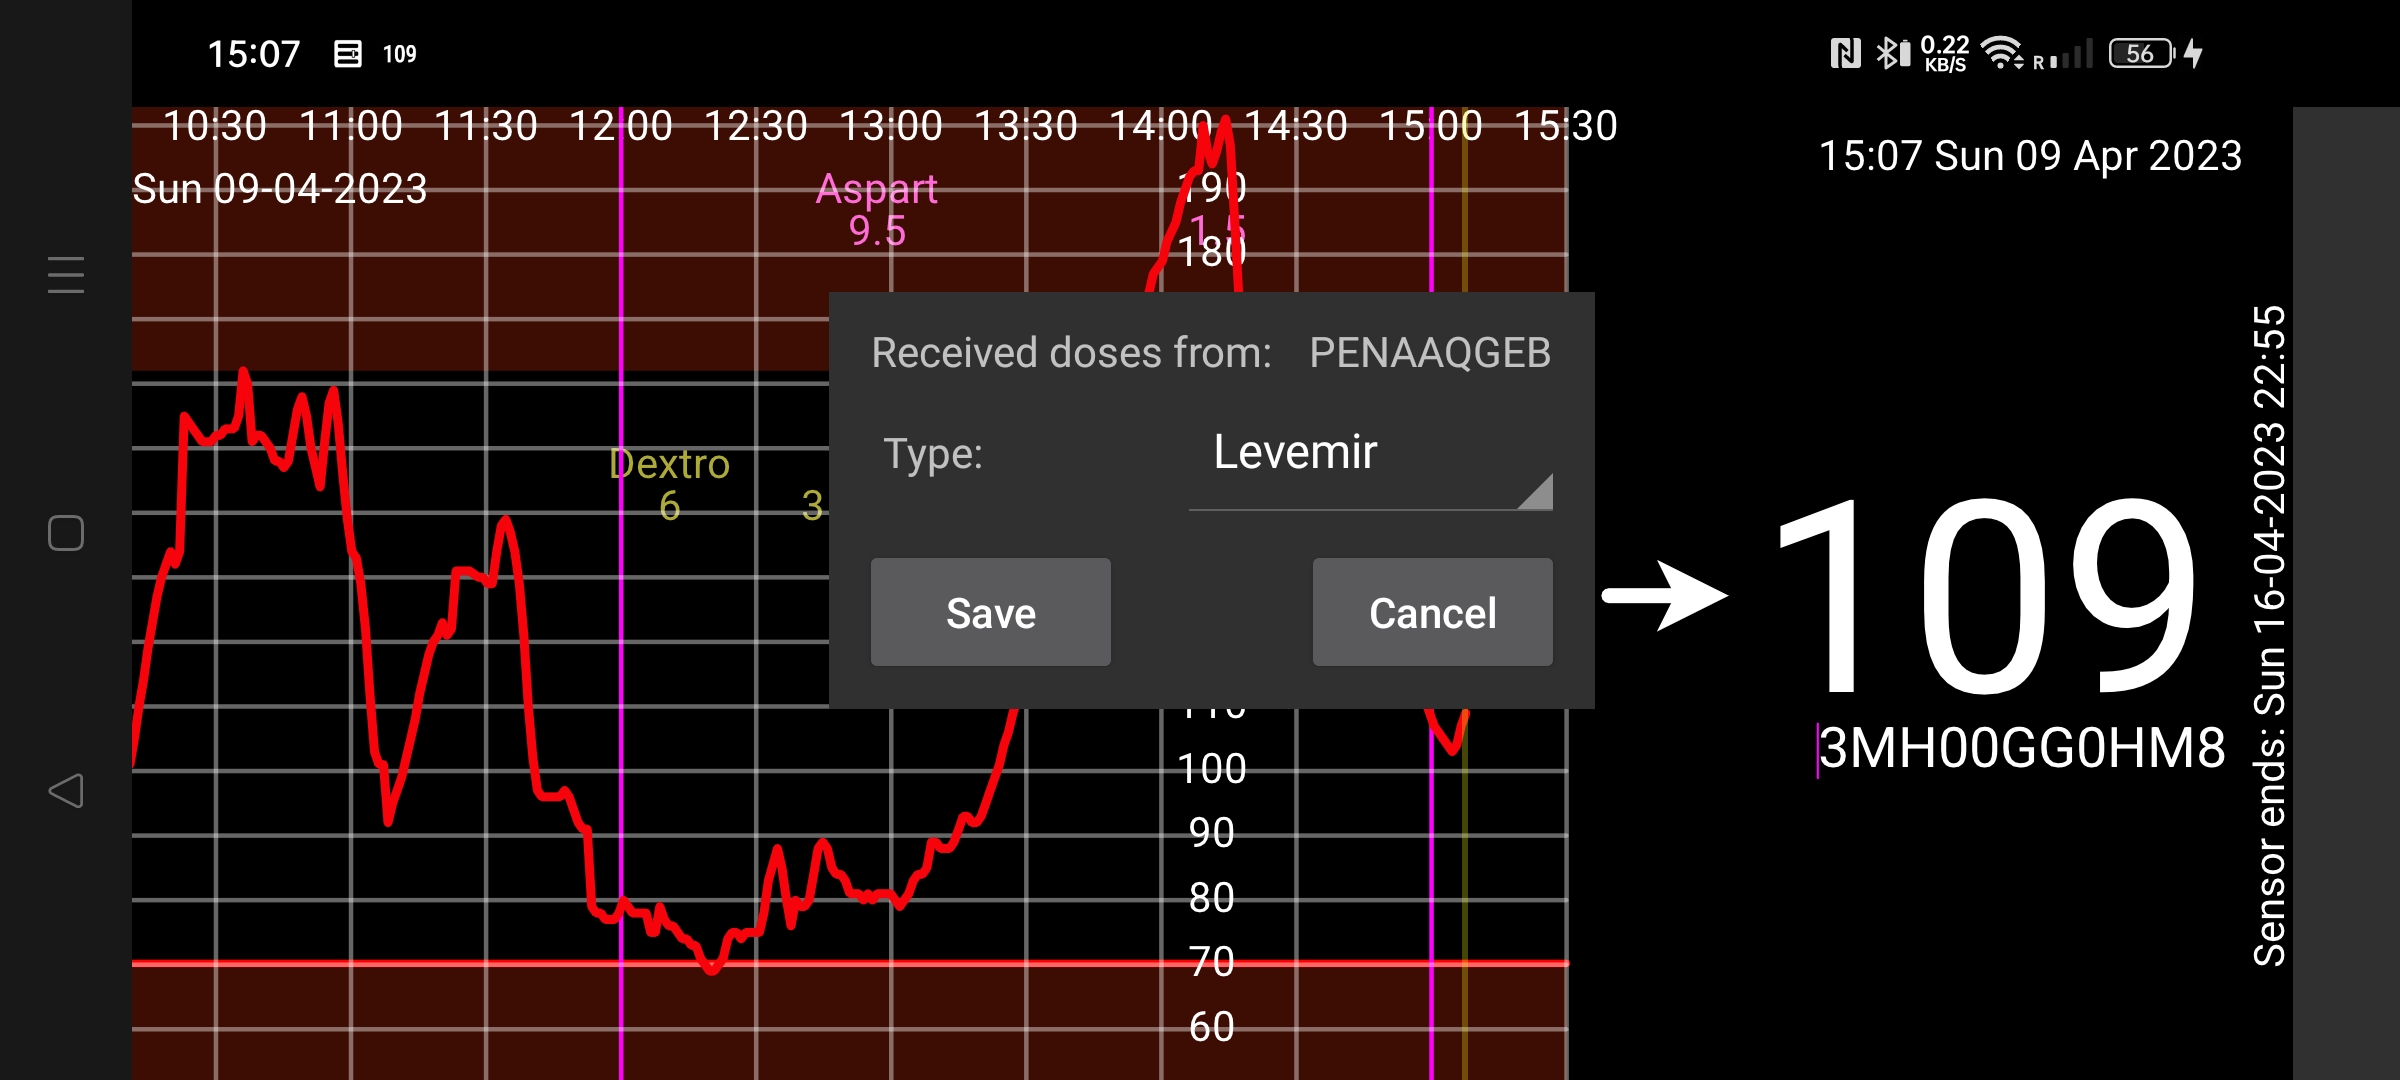
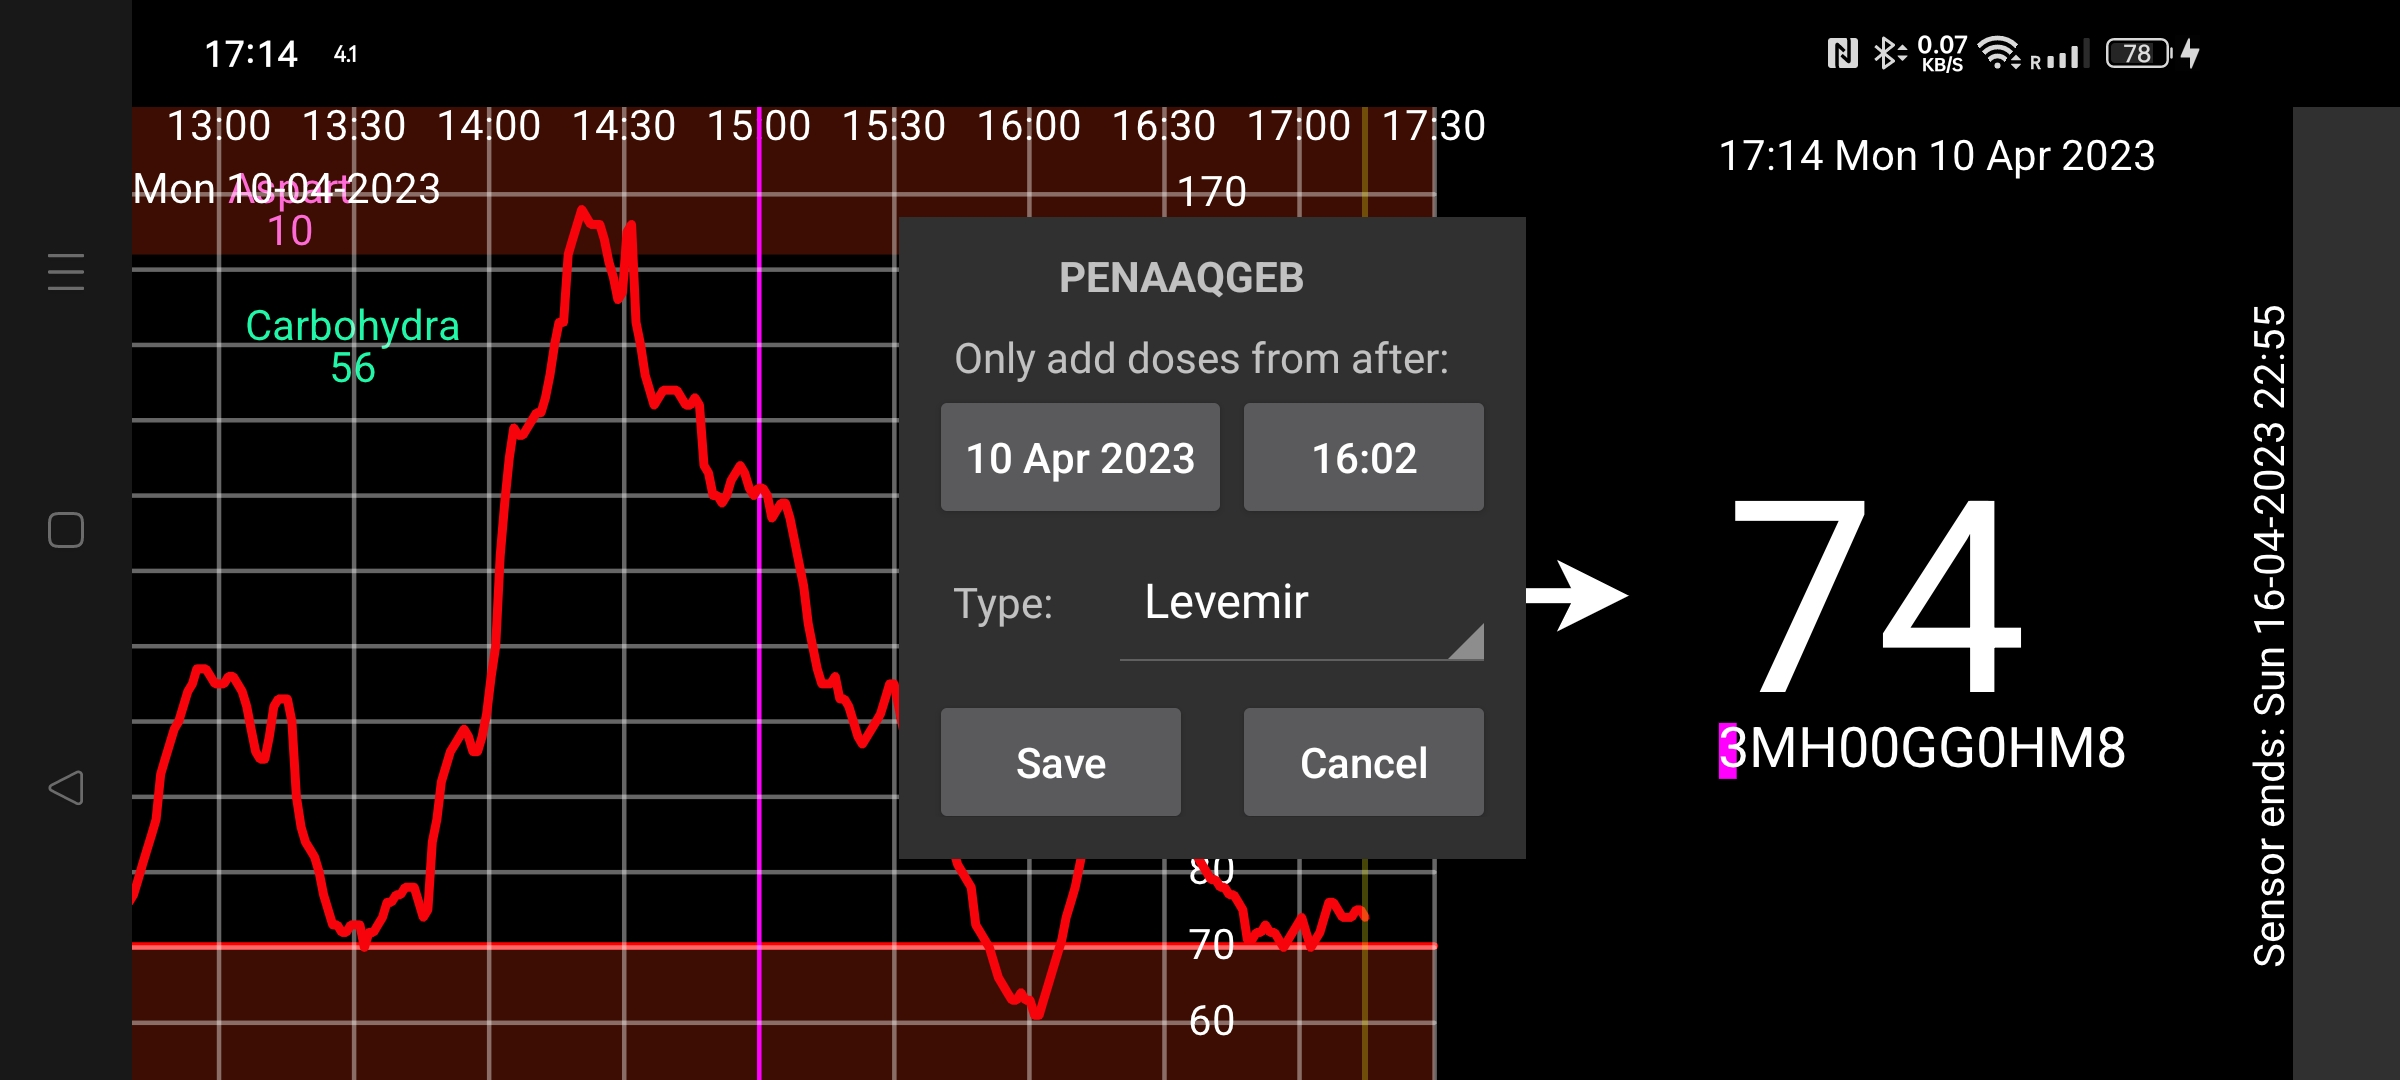
4.13.3: NFC NovoPens

diff --git a/Juggluco/mgdL/index.html b/Juggluco/mgdL/index.html
@@ -582,7 +582,9 @@ later contains support for <strong>NFC NovoPen® 6</strong> &amp;
 <strong>NovoPen Echo®Plus</strong> insulin pens. Just hold the back
 of the pen to the NFC sensor in your phone with Juggluco in the
 foreground. Thereafter, you can specify with what label the new
-values have to be saved.</p>
+values have to be saved. For the case you have previously entered the
+insulin dose data by hand, you can specify that only doses after a
+certain date and time should be added.</p>
     <figure> <img src="savetype.jpg"  title="Save NovoPen doses"
         style="object-fit:contain;     width:11.5cm;            height:auto;"> <figcaption><span
           style="font-size: 0.9em; font-family: Times New Roman;">After you have scanned the NFC NovoPen you can select the label for the insulin</span></figcaption> </figure>

diff --git a/Juggluco/mmol.html b/Juggluco/mmol.html
@@ -616,7 +616,9 @@ later contains support for <strong>NFC NovoPen® 6</strong> &amp;
 <strong>NovoPen Echo®Plus</strong> insulin pens. Just hold the back
 of the pen to the NFC sensor in your phone with Juggluco in the
 foreground. Thereafter, you can specify with what label the new
-values have to be saved.</p>
+values have to be saved. For the case you have previously entered the
+insulin dose data by hand, you can specify that only doses after a
+certain date and time should be added.</p>
     <figure> <img src="savetype.jpg"  title="Save NovoPen doses"
         style="object-fit:contain;     width:11.5cm;            height:auto;"> <figcaption><span
           style="font-size: 0.9em; font-family: Times New Roman;">After you have scanned the NFC NovoPen you can select the label for the insulin</span></figcaption> </figure>
